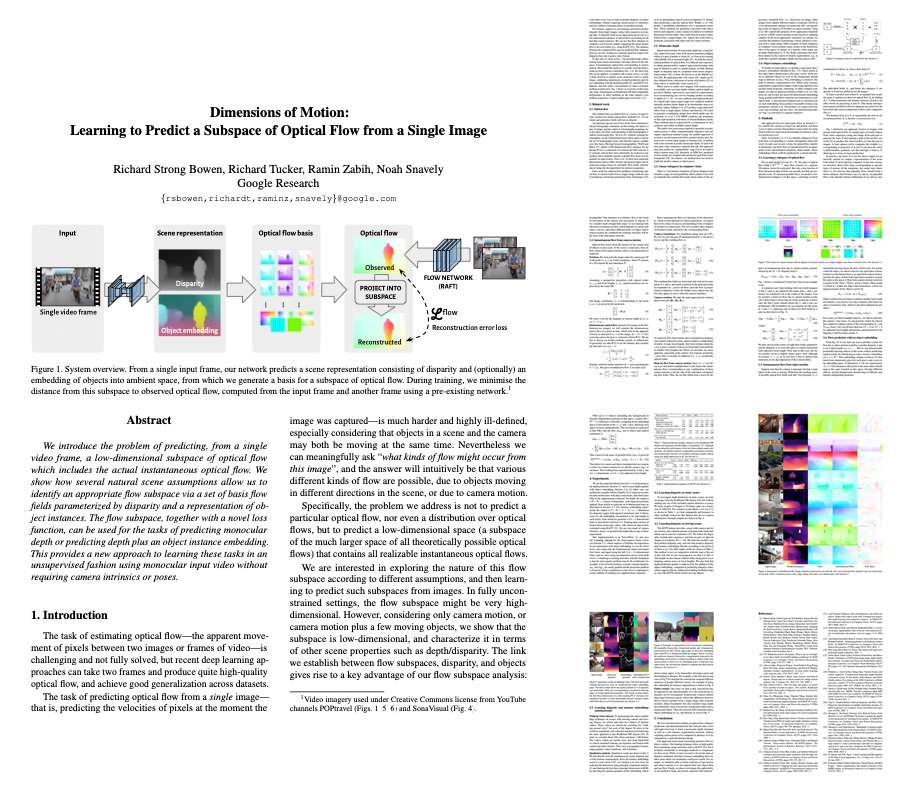
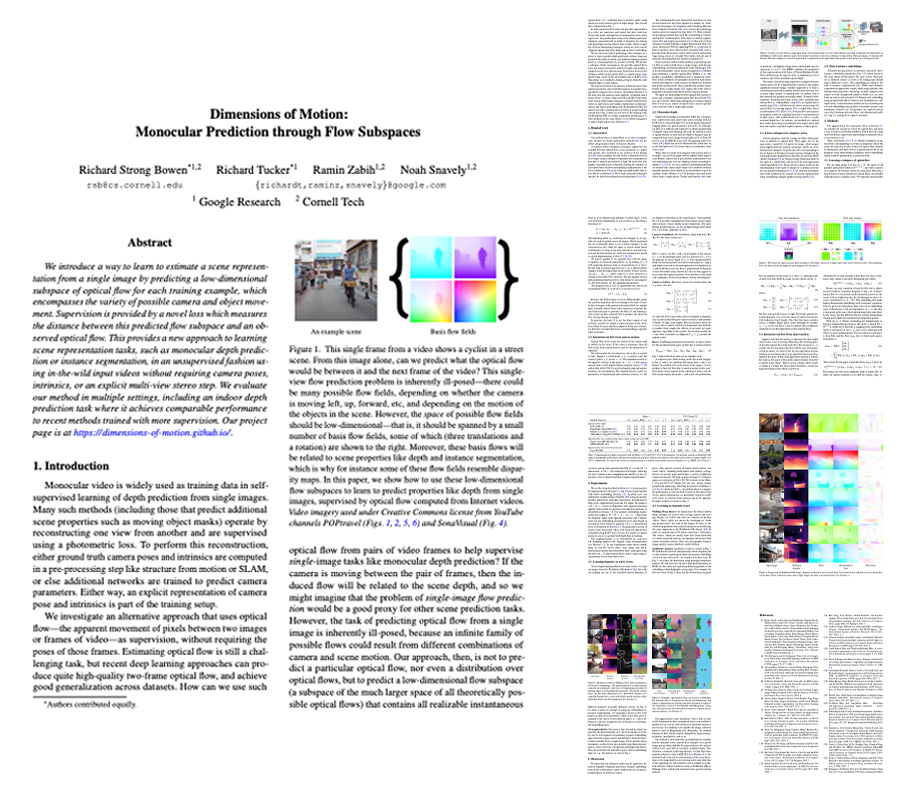
Update for arxiv

diff --git a/index.html b/index.html
@@ -98,7 +98,7 @@ a.img {
   line-height: 150%;
   padding: 8px 0;
 }
-.links a {
+.links a.pad {
   padding: 0 3px;
 }
 .examples {
@@ -121,7 +121,7 @@ svg { position: absolute; height: 0; }
 }
 
 </style>
-<h1>Dimensions of motion:<br>Learning to predict a subspace of optical flow <span>from a single image</span></h1>
+<h1>Dimensions of motion:<br>Monocular prediction through <span>flow subspaces</span></h1>
 <br>
 <h2>
   Richard Strong Bowen<a href="#fn">*</a><br>
@@ -136,16 +136,17 @@ svg { position: absolute; height: 0; }
 </div>
 
 <h3>Abstract</h3>
-<p>We introduce the problem of predicting, from a single video frame, a
-low-dimensional subspace of optical flow which includes the actual
-instantaneous optical flow. We show how several natural scene assumptions
-allow us to identify an appropriate flow subspace via a set of basis flow
-fields parameterized by disparity and a representation of object instances.
-The flow subspace, together with a novel loss function, can be used for
-the tasks of predicting monocular depth or predicting depth plus an object
-instance embedding. This provides a new approach to learning these tasks
-in an unsupervised fashion using monocular input video without requiring
-camera intrinsics or poses.
+<p>We introduce a way to learn to estimate a scene representation from
+a single image by predicting a low-dimensional subspace of optical flow
+for each training example, which encompasses the variety of possible
+camera and object movement. Supervision is provided by a novel loss which
+measures the distance between this predicted flow subspace and an observed
+optical flow. This provides a new approach to learning scene representation
+tasks, such as monocular depth prediction or instance segmentation, in an
+unsupervised fashion using in-the-wild input videos without requiring
+camera poses, intrinsics, or an explicit multi-view stereo step. We evaluate
+our method in multiple settings, including an indoor depth prediction task
+where it achieves comparable performance to recent methods trained with more supervision.
 </p>
 
 
@@ -153,10 +154,10 @@ camera intrinsics or poses.
 <div class=crow>
 <a class=img href="https://arxiv.org/abs/2112.01502"><img src="images/paper.png" width=300 style="border: 1px solid transparent"></a>
 <div class=links>
-<em>Dimensions of Motion:<br>Learning to Predict a Subspace of Optical Flow<br>from a Single Image</em><br><br>
+<em>Dimensions of Motion:<br>Monocular prediction through <span>flow subspaces</em><br><br>
 Richard Strong Bowen<a href="#fn">*</a>, Richard Tucker<a href="#fn">*</a>,<br>
 Ramin Zabih, Noah Snavely<br><br>
-[<a href="https://arxiv.org/abs/2112.01502">Arxiv</a>]
+[<a class=pad href="https://arxiv.org/abs/2112.01502">Arxiv</a>]
 </div>
 </div>
 
@@ -289,10 +290,10 @@ window.addEventListener('load', (e) => {
 
 <h3>BibTeX</h3>
 <div class=bibtex>
-<div>@misc{bowen2021dimensions,</div>
-<div>  title         = {Dimensions of Motion: Learning to Predict a Subspace of Optical Flow from a Single Image},</div>
+<div>@misc{bowen2022dimensions,</div>
+<div>  title         = {Dimensions of Motion: Monocular Prediction through Flow Subspaces},</div>
 <div>  author        = {Richard Strong Bowen and Richard Tucker and Ramin Zabih and Noah Snavely}, </div>
-<div>  year          = {2021},</div>
+<div>  year          = {2022},</div>
 <div>  eprint        = {2112.01502},</div>
 <div>  archivePrefix = {arXiv},</div>
 <div>  primaryClass  = {cs.CV}</div>
@@ -301,4 +302,4 @@ window.addEventListener('load', (e) => {
 
 <hr>
 
-<sup id='fn'> *: equal authorial contribution</sup>
+<sup id='fn'>*equal authorial contribution</sup>
